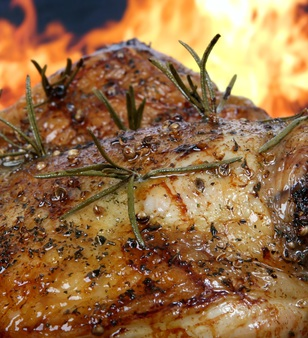
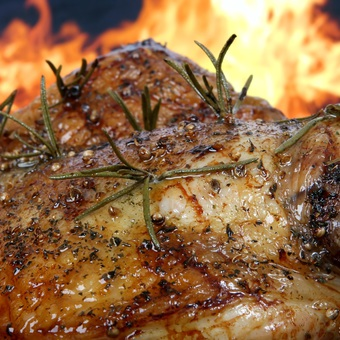
Assignment 4

diff --git a/app/assets/stylesheets/menu.scss b/app/assets/stylesheets/menu.scss
@@ -49,60 +49,125 @@
   }
   
   .food-specialities{
-    float: middle;
-    margin-left: -1px;
-    width: 1400px;
-    padding-right: 3500px;
-    transform: scaleX(1.1);
+    width: 200%;
     margin-top: 196px;
     margin-bottom: 700px;
+    margin-left: 65px;
+    
+    
+    
     .specialities-item-img {
-      width: 308px;
-      height: 338px;
+      width: 340px;
+      height: 340px;
+      margin-left:5px;
+      position: relative;
+      
       background-image: "images/special-food-placeholder.png";
       background-color: gray;
       background-size: cover;
       
       float: right;
       
-    }
-    .specialities-item-img.odd {
-      margin-top: 70px;
-    }
-    
-    
-  }
-  
-  .menu-header {
-    width: 281px;
-    height: 118px;
-    font-size: 56px;
-    margin-left: 480px;
-  }
-  
-  .ten-foods{
-    padding-bottom: 500px;
-    .food-others {
-      width: 100%;
-      margin-left: 60px;
-      margin-top: 70px;
-      .others-item-img {
-        margin-top: 15px;
-        width: 204px;
-        height: 223px;
-        float: left;
-        margin-left: 15px;
-        
+      position: relative;
+      left: -50%; /* or right 50% */
+      text-align: left;
+
+      img {
+        clear: both;
+      }
+      
+      .rate-bar {
+        width: 340px;
+        height: 51px;
+        background-color: $color-purple-trans;
+        position: absolute;
+
+        img {
+          position: absolute;
+          top: 50%;
+          transform: translateY(-50%);
+          margin-left: 30px;
+        }
+
+        div{
+          position: absolute;
+          right: 30px;
+          top: 50%;
+          transform: translateY(-50%);
+          font-size: 18px;
+        }
+      }
+
+      .big-order-btn {
+        position: absolute;
+        right: -1px;
+        bottom: -1px;
+
       }
       
       
     }
-   
-  }
-   .menu-header-other {
-      font-size: 56px;
-      margin-left: 530px;
-      margin-top: 100px;
+    .specialities-item-img.odd {
+      margin-top: 70px;
     }
-}
-
+  }
+  
+  
+  //   .specialities-item-img {
+    //     width: 308px;
+    //     height: 338px;
+    //     background-image: "images/special-food-placeholder.png";
+    //     background-color: gray;
+    //     background-size: cover;
+    //     margin-left: 33px;
+    
+    //     float: right;
+    
+    //     .rate-bar {
+      //       width: 340px;
+      //       height: 51px;
+      //       background-color: $color-purple-trans
+      //     }
+      
+      //   }
+      .specialities-item-img.odd {
+        margin-top: 70px;
+      }
+      
+      
+      // }
+      
+      .menu-header {
+        width: 281px;
+        height: 118px;
+        font-size: 56px;
+        margin-left: 480px;
+      }
+      
+      .ten-foods{
+        padding-bottom: 500px;
+        .food-others {
+          width: 100%;
+          margin-left: 60px;
+          margin-top: 70px;
+          .others-item-img {
+            margin-top: 15px;
+            width: 204px;
+            height: 223px;
+            float: left;
+            margin-left: 15px;
+            
+          }
+          
+          
+        }
+        
+      }
+      .menu-header-other {
+        font-size: 56px;
+        margin-left: 530px;
+        margin-top: 100px;
+      }
+    }
+    
+    

diff --git a/app/assets/stylesheets/carts.scss b/app/assets/stylesheets/carts.scss
@@ -1,0 +1,3 @@
+// Place all the styles related to the carts controller here.
+// They will automatically be included in application.css.
+// You can use Sass (SCSS) here: http://sass-lang.com/

diff --git a/app/assets/javascripts/carts.js b/app/assets/javascripts/carts.js
@@ -1,0 +1,2 @@
+// Place all the behaviors and hooks related to the matching controller here.
+// All this logic will automatically be available in application.js.

diff --git a/db/schema.rb b/db/schema.rb
@@ -10,10 +10,15 @@
 #
 # It's strongly recommended that you check this file into your version control system.
 
-ActiveRecord::Schema.define(version: 20170805062233) do
+ActiveRecord::Schema.define(version: 20170807003316) do
 
   # These are extensions that must be enabled in order to support this database
   enable_extension "plpgsql"
+
+  create_table "carts", force: :cascade do |t|
+    t.datetime "created_at", null: false
+    t.datetime "updated_at", null: false
+  end
 
   create_table "food_items", force: :cascade do |t|
     t.string "name"
@@ -26,6 +31,16 @@ ActiveRecord::Schema.define(version: 20170805062233) do
     t.index ["section_id"], name: "index_food_items_on_section_id"
   end
 
+  create_table "line_items", force: :cascade do |t|
+    t.bigint "cart_id"
+    t.bigint "food_item_id"
+    t.integer "quantity"
+    t.datetime "created_at", null: false
+    t.datetime "updated_at", null: false
+    t.index ["cart_id"], name: "index_line_items_on_cart_id"
+    t.index ["food_item_id"], name: "index_line_items_on_food_item_id"
+  end
+
   create_table "sections", force: :cascade do |t|
     t.string "name"
     t.datetime "created_at", null: false
@@ -33,4 +48,6 @@ ActiveRecord::Schema.define(version: 20170805062233) do
   end
 
   add_foreign_key "food_items", "sections"
+  add_foreign_key "line_items", "carts"
+  add_foreign_key "line_items", "food_items"
 end

diff --git a/db/seeds.rb b/db/seeds.rb
@@ -255,17 +255,11 @@ drinks.each do |food|
 end
 
 
-# Crop the image to needed size
-# Array -> url
-# FoodItem.all.each do |food_item|
-#   magic_image = Magick::ImageList.new(food_item.image_url)
-#   resized_image = magic_image.resize_to_fill!(308,338)
-#   # crop_image = magic_image.crop!(CenterGravity, 308, 337)
-#   resized_image.write("./app/assets/images/food_images/#{food_item.name}.jpg") # Save on one file repeatly (should keep)
-#   puts food_item.name
-#   puts food_item.image_url
-# end
-# puts image = Magick::ImageList.new("https://static.pexels.com/photos/5506/bread-food-salad-sandwich.jpg")
-
-# crop = image.crop!(CenterGravity, 308, 337)
-# crop.write('./app/assets/images/food_images/test_cropped.jpg')
+FoodItem.all.each do |food_item|
+  magic_image = Magick::ImageList.new(food_item.image_url)
+  resized_image = magic_image.resize_to_fill!(340,340)
+  # crop_image = magic_image.crop!(CenterGravity, 308, 337)
+  resized_image.write("./app/assets/images/food_images/#{food_item.name}.jpg") # Save on one file repeatly (should keep)
+  puts food_item.name
+  puts food_item.image_url
+end

diff --git a/app/controllers/carts_controller.rb b/app/controllers/carts_controller.rb
@@ -1,0 +1,22 @@
+class CartsController < ApplicationController
+  def add
+    cart = get_cart
+    line_item = cart.line_items.build line_item_params
+    if cart.save
+      flash[:success] = "Added"
+    else 
+      flash[:error] = "Cannot add #{line_item.food_item.name}, Errors: #{line_item.errors.full_messages.to_sentence}"
+    end
+    redirect_back fallback_location: menu_path
+    
+  end
+  
+  def show
+    @cart = get_cart
+  end
+  
+  private
+  def line_item_params
+    params.require(:line_item).permit(:food_item_id, :quantity)
+  end
+end

diff --git a/app/controllers/application_controller.rb b/app/controllers/application_controller.rb
@@ -1,3 +1,19 @@
 class ApplicationController < ActionController::Base
   protect_from_forgery with: :exception
+  helper_method :get_cart
+
+   def set_cart
+    @cart = Cart.create
+    session[:cart_id] = @cart.id
+    @cart
+  end
+  
+  def get_cart
+    if session[:cart_id]
+      @cart = Cart.find session[:cart_id]
+    else
+      set_cart
+    end
+  end
+  
 end

diff --git a/app/controllers/menu_controller.rb b/app/controllers/menu_controller.rb
@@ -1,5 +1,6 @@
 class MenuController < ApplicationController
   def index
+    get_cart
     @sections = Section.all
     @foods = FoodItem.all
     specialities_section = Section.find_by(name: :Specialities)
@@ -13,4 +14,6 @@ class MenuController < ApplicationController
     end
     
   end
+  
+ 
 end

diff --git a/db/migrate/20170807003316_create_line_items.rb b/db/migrate/20170807003316_create_line_items.rb
@@ -1,0 +1,11 @@
+class CreateLineItems < ActiveRecord::Migration[5.1]
+  def change
+    create_table :line_items do |t|
+      t.references :cart, foreign_key: true
+      t.references :food_item, foreign_key: true
+      t.integer :quantity
+
+      t.timestamps
+    end
+  end
+end

diff --git a/app/models/line_item.rb b/app/models/line_item.rb
@@ -1,0 +1,10 @@
+class LineItem < ApplicationRecord
+  belongs_to :cart
+  belongs_to :food_item
+  
+  validates :quantity, presence: true, numericality: {greater_than: 0}
+  
+  def name
+    food_item.name
+  end
+end

diff --git a/app/helpers/application_helper.rb b/app/helpers/application_helper.rb
@@ -1,2 +1,12 @@
 module ApplicationHelper
+  def flasherize(key)
+    case key.to_sym
+  when :error
+    "alert-danger"
+  when :success
+    "alert-success"
+  else
+    "alert-warning"
+  end
+end
 end

diff --git a/config/routes.rb b/config/routes.rb
@@ -1,4 +1,10 @@
 Rails.application.routes.draw do
+
+  resources :line_items
+
+  post "carts/add"
+  get "cart" => "carts#show"
+
   resources :food_items
   resources :sections
   resources :sections do
